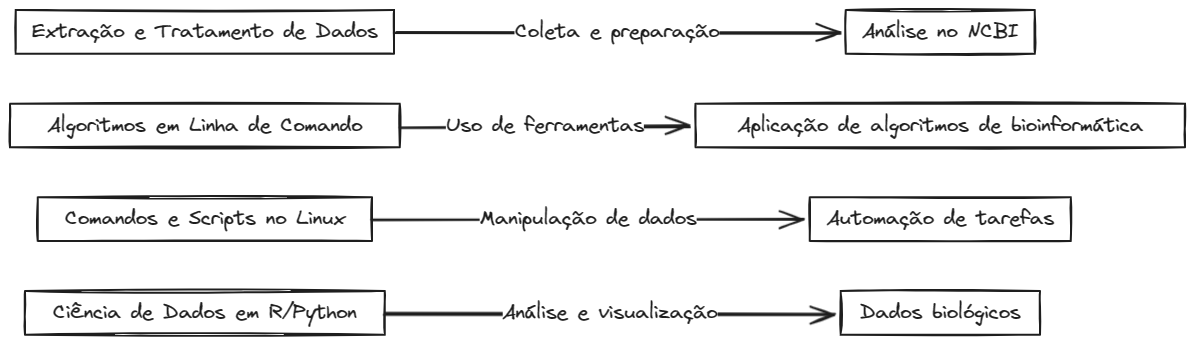
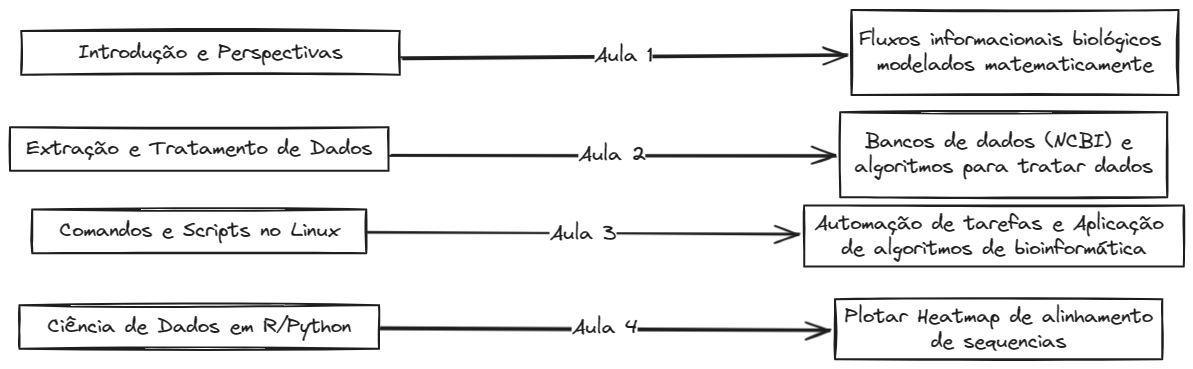
atualização imagem e começo da second class

diff --git a/README.md b/README.md
@@ -1,3 +1,3 @@
 # bioinformatics-course
-
+![Diagrama]
 [Guia de Cursos](SupplementaryMaterials.md)
